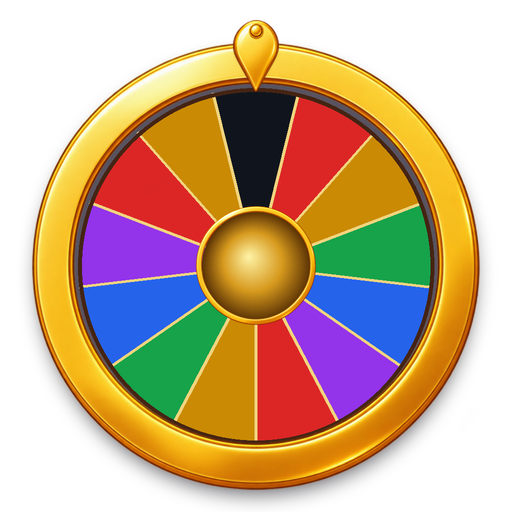
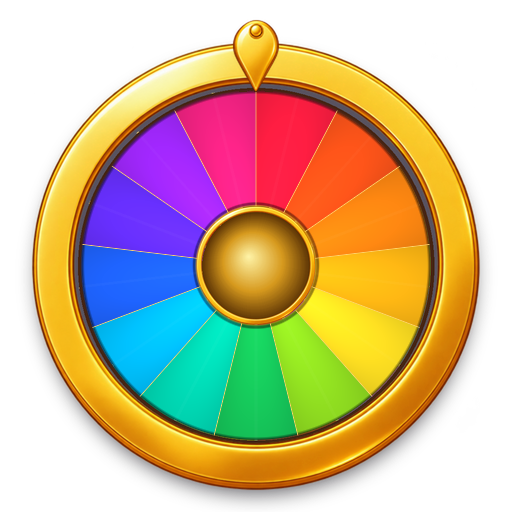
Circus v6: trevo contra Tucker, roleta em arco-íris com contador subindo e Good Luck (mín. 25 giros)

diff --git a/Fortune Circus.dc.html b/Fortune Circus.dc.html
@@ -224,9 +224,6 @@ a:hover { color: #fff3c4; }
 
 
 
-  <sc-if value="{{ feature }}" hint-placeholder-val="{{ false }}">
-    <div style="position: absolute; left: 106.5px; top: -22px; width: 240px; height: 240px; pointer-events: none; border-radius: 50%; mix-blend-mode: screen; background: repeating-conic-gradient(from 0deg, rgba(255,214,90,.5) 0deg 9deg, rgba(255,214,90,0) 9deg 22.5deg); -webkit-mask-image: radial-gradient(circle, #000 28%, transparent 68%); mask-image: radial-gradient(circle, #000 28%, transparent 68%); animation: fcHalo 14s linear infinite;"></div>
-  </sc-if>
   <div class="park-reel-effects" aria-hidden="true">
     <div class="park-reel-fx-column park-reel-shell-0">
   <div class="park-grid-shade" style="position: absolute; left: 30px; top: 215px; width: 394px; height: 390px; border-radius: 10px; pointer-events: none; background: rgba(28,8,40,.42); -webkit-mask-image: linear-gradient(to top, transparent 0%, transparent 42%, #000 58%, #000 100%); mask-image: linear-gradient(to top, transparent 0%, transparent 42%, #000 58%, #000 100%); -webkit-mask-size: 100% 300%; mask-size: 100% 300%; -webkit-mask-repeat: no-repeat; mask-repeat: no-repeat; -webkit-mask-position: 0 {{ frameOff }}; mask-position: 0 {{ frameOff }}; transition: {{ frameOffT }};"></div>

diff --git a/ui/park/cabinet.css b/ui/park/cabinet.css
@@ -146,7 +146,7 @@
 .park-circus-stage .park-pocket{left:5px;top:calc(var(--park-prize-top) + 56px - 52px);width:112px;height:52px;transform:none}
 .park-pocket .park-ticket-wallet-label{left:36%;right:6%;top:10px;font-size:10px;line-height:12px;letter-spacing:.3px}
 .park-pocket [data-tickets]{left:36%;right:6%;top:22px;height:23px;font-size:var(--park-ticket-font,26px)}
-.park-circus-stage .park-basket,.park-circus-stage .park-basket[data-park-side="true"]{right:5px!important;top:calc(var(--park-prize-top) + 56px - 52px)!important;width:112px!important;height:52px!important;transform:none!important;translate:none!important}
+.park-circus-stage .park-basket,.park-circus-stage .park-basket[data-park-side="true"]{right:5px!important;top:calc(var(--park-prize-top) + 56px - 52px)!important;width:112px!important;height:52px!important;transform:none!important;translate:0 0}
 .park-basket .park-ticket-wallet-face,.park-tucker-carried-basket .park-ticket-wallet-face{transform-origin:100% 100%}
 
 .park-reel-cell>[data-sym]{transition:filter .18s ease-out}

diff --git a/tests/circus_v6_browser.py b/tests/circus_v6_browser.py
@@ -44,6 +44,16 @@ with sync_playwright() as p:
   page.screenshot(path='work/preview-cedar-defense-'+kind+'.png')
   page.locator('.park-defense-scene').wait_for(state='detached')
   assert page.locator('[data-tickets]').inner_text()=='1/5'
+ # Tucker com 0 roletas guardadas ainda deve ser bloqueado pelo trevo
+ page.evaluate('''()=>{const k='kingRico.parque.mobile-preview.v1',s=JSON.parse(localStorage.getItem(k));s.park.cedros=1;const p=s.records.find(([k])=>k==='players/preview')[1];p.peaches=0;p.peachBank={count:0,units:0};localStorage.setItem(k,JSON.stringify(s));}''')
+ page.reload();ready()
+ page.evaluate('KingRicoPreviewPicker()');page.locator('#kr-preview-picker').get_by_role('button',name='Toucan').click()
+ page.locator('[data-spin-btn]').click()
+ page.locator('.park-defense-scene').wait_for(timeout=15000)
+ assert page.evaluate('__fc._cloudSpin.outcome.defense.against')=='tucker'
+ page.locator('.park-defense-scene').wait_for(state='detached')
+ assert page.locator('[data-tickets]').inner_text()=='0/5'
+ page.evaluate('KingRicoPreviewPicker()');page.locator('#kr-preview-picker').get_by_role('button',name='Aleatório').click()
  # Ray: sem defesa; leva 1 a 2 dos 2 trevos guardados
  page.evaluate('''()=>{const k='kingRico.parque.mobile-preview.v1',s=JSON.parse(localStorage.getItem(k));s.park.cedros=2;s.park.economyV6={version:1,rounds:0,wageredUnits:0,paidUnits:1000000,tigerUnits:0};localStorage.setItem(k,JSON.stringify(s));}''')
  page.reload();ready()
@@ -53,7 +63,29 @@ with sync_playwright() as p:
  ray=page.evaluate('__fc._cloudSpin.outcome')
  assert not ray.get('defense') and ray['ray']['before']==2 and 1<=ray['ray']['stolen']<=2,ray
  assert page.evaluate('KingRicoPark.state.cedros')==2-ray['ray']['stolen']
+ page.locator('.park-tony-result').wait_for(timeout=15000)
  page.screenshot(path='work/preview-ray-steals-cedars.png')
+ page.locator('.park-tony-result').get_by_role('button',name='CONTINUAR').click()
+ page.wait_for_function('!__fc._cfRun',timeout=15000)
+ # Good Luck (barra cheia): trava símbolos na máquina e não mostra o halo antigo da cesta
+ page.evaluate('KingRicoPreviewPicker()');page.locator('#kr-preview-picker').get_by_role('button',name='Good Luck (barra cheia)').click()
+ page.locator('[data-spin-btn]').click()
+ page.wait_for_function('Boolean(__fc.state.feature)',timeout=15000)
+ assert page.evaluate('document.querySelectorAll("[style*=fcHalo]").length')==0
+ feat=page.evaluate('__fc._cloudSpin.outcome.feature')
+ assert feat['sym'] in [0,2,6,7,8,10] and feat['grid'].count(feat['sym'])>=3,feat
+ page.wait_for_function('document.querySelectorAll(\'.park-reel-cell[data-held="true"]\').length>=1',timeout=15000)
+ page.screenshot(path='work/preview-goodluck-held.png')
+ page.wait_for_function('!__fc.state.feature&&!__fc._cfRun&&!__fc.cloudBusy()&&!document.querySelector(".park-bigwin-flight")&&(!document.querySelector("[data-bigwin-modal]")||getComputedStyle(document.querySelector("[data-bigwin-modal]")).visibility==="hidden")',timeout=45000)
+ # Roleta (5 guardadas): o contador .park-basket deve subir junto com as cordas
+ page.evaluate('KingRicoPreviewPicker()');page.locator('#kr-preview-picker').get_by_role('button',name='Roleta (5 guardadas)').click()
+ page.locator('[data-spin-btn]').click()
+ page.wait_for_function('document.querySelector(".park-hoist-deck")?.dataset.hoist==="wheel"',timeout=20000)
+ basket_translate=page.locator('.park-basket').evaluate('e=>getComputedStyle(e).translate')
+ assert '-920px' in basket_translate,basket_translate
+ page.screenshot(path='work/preview-wheel-hoist.png')
+ page.evaluate('''()=>{const k='kingRico.parque.mobile-preview.v1',s=JSON.parse(localStorage.getItem(k));s.park.wheel=null;localStorage.setItem(k,JSON.stringify(s));}''')
+ page.evaluate('KingRicoPreviewPicker()');page.locator('#kr-preview-picker').get_by_role('button',name='Aleatório').click()
  for route in ['park','fingo','flying-clown','bounce']:  # penalty voltou: o controle abre esse jogo
   page.goto(BASE+'/'+route);ready();assert 'Fortune%20Circus.dc.html' in page.url
   assert page.locator('[data-ticket],.kr-hud-park').count()==0
@@ -63,5 +95,5 @@ with sync_playwright() as p:
  assert page.evaluate('KingRicoPark.state.cedros')==min(5,previous+1)
  page.screenshot(path='work/preview-circus-v6.png')
  assert not errors and not missing,(errors,missing)
- print(json.dumps({'cloverCollection':True,'defense':['tony','tucker'],'rayStealsClovers':True,'archivedRoutes':True,'errors':errors,'missing':missing}))
+ print(json.dumps({'cloverCollection':True,'defense':['tony','tucker','tuckerZeroWheels'],'basketHoistsWithRopes':True,'rayStealsClovers':True,'archivedRoutes':True,'errors':errors,'missing':missing}))
  b.close()

diff --git a/docs/HANDOFF.md b/docs/HANDOFF.md
@@ -1,18 +1,16 @@
-## Trevo no lugar do cedro + Roleta (0/5) no lugar do Happeach + Barra lateral Good Luck aleatória — 14/11/2026 (Antigravity)
+## Ajustes Trevo + Roleta Arco-Íris + Good Luck (mín. 25 giros) — 14/11/2026 (Antigravity)
 
-- **1. Troca do cedro pelo trevo (`assets/symbols/sym-clover.png`):**
-  - Substituída a célula 5 do atlas `assets/symbols-v7.webp` pelo trevo (`assets/symbols/sym-clover.png`), além do depósito (`.park-pocket`), voo (`flyTickets`), cena de defesa (`"Trevo da sorte te protegeu!"`), tela do Ray (`"Ray levou N trevo(s)"` / `"Sem trevos!"`), modal (`"Trevos de proteção"`, `"Seus trevos"`), tabela de pagamentos e seletor `⚙ → 🎯` (`"Trevo"`).
-  - Atualizado `tests/circus_v6_browser.py` para `"Trevos de proteção"`.
-- **2. Happeach guardado e Roleta no lugar dele (`0/5`):**
-  - Happeach retirado do sorteio, contador e cesta (arquivos preservados no repositório).
-  - No depósito superior direito (`0/5`, `.park-basket`), agora ficam guardadas as roletas (`assets/wheel/wheel-symbol-v1.webp`, célula 11 de `assets/symbols-v7.webp`). Ao juntar 5 (`5/5`), abre a roleta bônus (`baseUnits = round(wheelUnits * 0.36)`). Tucker rouba de 1 a 4 roletas guardadas (ou é bloqueado por 1 trevo).
-- **3. Barra lateral vira o Good Luck:**
-  - Topo das barras laterais (`.park-meter-goal`) agora exibe a nuvem (`assets/symbols/sym-candy.webp`).
-  - Enchimento aleatório nos giros normais (`+1` em 8%, `+2` em 2%, `+0` em 90%). Ao chegar a 10, a nuvem pisca e ativa os 5 giros Good Luck (`featureBet = floor(cycleWagerUnits / 10) / 100`).
-- **4. Seletor `⚙ → 🎯` e Auditoria v6 (~90% RTP):**
-  - Incluídas no seletor `⚙ → 🎯` as opções `"Trevo"`, `"Good Luck (barra cheia)"` e `"Roleta (5 guardadas)"`.
-  - Parâmetros calibrados em `cloud/circus-profile.cjs`: `CEDAR_P = 0.12`, `PEACH_P_V6 = 0.015`, `WHEEL_SHARE_V6 = 0.36`, `BAR_P1_V6 = 0.08`, `BAR_P2_V6 = 0.02`.
-  - Auditoria (`docs/circus-economy-v6-audit.json`, 5M giros/aposta): retorno líquido **89,99%–90,00%** em todas as apostas (1 a 1.000), retorno bruto sem Tony **91,49%–91,83%** (nunca acima de 93%). Cenários de stress (`docs/circus-economy-v6-stress.json`, 1M giros): `tenth-high` **90,27%**, `armor-farm` **90,02%**, `alternating` **89,98%**, `armor=true` **89,97%**.
+- **Feito:**
+  - **Trevo protege contra Tony e Tucker mesmo com 0 roletas (`0/5`):** corrigidos `cloud/circus-control-v6.cjs` e `firestore.rules` (`v6Villain`) para que `protect` dependa apenas de `cedros > 0 && kind !== 'ray'`, sem exigir `peaches > 0` contra o Tucker.
+  - **Roleta em arco-íris:** recoloridos os 13 setores de `assets/wheel/wheel-symbol-v1.png`, `.webp` e célula 11 de `assets/symbols-v7.webp` em arco-íris contínuo preservando o aro, ponteiro e miolo dourados.
+  - **Contador `0/5` sobe junto com as cordas:** removido `translate:none!important` em `.park-circus-stage .park-basket` (`ui/park/cabinet.css`) para permitir que `wheel-transition.js` / `.park-hoist-deck[data-hoist="wheel"]` icem o contador de roletas guardadas junto com a máquina.
+  - **Good Luck aleatório com mínimo de 25 giros e animações corrigidas:**
+    - Em `cloud/park.cjs` (`spinV6`), adicionado controle `_barSpins` (persistido na prévia em `prototypes/circus-preview/model.mjs`) exigindo **no mínimo 25 giros** para atingir o nível `10`, com `BAR_P1_V6 = 0.12`, `BAR_P2_V6 = 0` e `WHEEL_SHARE_V6 = 0.36` em `cloud/circus-profile.cjs` (mín. **25 giros**, média **~88 giros**). Auditoria de 5M giros/aposta validou **~90,00% líquido** (**92,18%–92,22% bruto**, `≤ 93%`) e todos os cenários de stress (`90,10%` décimo giro alto).
+    - Em `prototypes/circus-preview/browser-wallet.mjs`, o fallback de `draws.shift()` voltou para `Math.random()` (evitando que testes manuais em `🎯` avançassem `+1` na barra a cada giro e travassem `.99` no Good Luck, o que deixava os rolos vazios).
+    - Em `cloud/engine.cjs` (`feature` v6), sorteio limitado aos 6 símbolos pagantes (`SYMBOLS_V6.slice(0, 11)`, sem `controller`) com garantia de símbolo travado e ao menos uma trinca antes do pagamento.
+    - Em `Fortune Circus.dc.html`, removido o efeito antigo `fcHalo` (raios atrás da antiga cesta centralizada).
+  - Atualizados `tests/circus-v6.test.cjs`, `tests/circus_v6_browser.py`, `docs/PARQUE.md`, `docs/CIRCUS-V6-VALIDACAO.md`, `docs/todo.json` e `docs/circus-economy-v6-audit.json` / `v6-stress.json`.
+- **Próximo passo:** Dono avaliar as correções na prévia única (`https://ric-lab.github.io/King-Rico/circus/`) usando `⚙ → 🎯` (**Trevo**, **Toucan**, **Good Luck (barra cheia)** e **Roleta (5 guardadas)**) antes da promoção ao oficial (`t-firestore-v6` segue com Codex).
 
 
 ## Controle v2 aprovado + prévia sempre na demo normal (sem links específicos) — 13/11/2026 (Antigravity)

diff --git a/docs/PARQUE.md b/docs/PARQUE.md
@@ -17,8 +17,8 @@ Três **trevos** (`assets/symbols/sym-clover.png`, célula 5 do atlas `symbols-v
 numa linha dão **1 defesa**, com estoque máximo **5**, indicado à esquerda do
 prêmio como **n/5**. Cada linha completa conta uma vez. Um trevo bloqueia um
 evento inteiro de **Tony ou Tucker — nunca de Ray**, sendo consumido na mesma
-transação do giro; Tony não consome três defesas pelas três patadas. Um ataque de
-Tucker contra depósito vazio não gasta defesa. Ray rouba de **1 a 4 trevos**
+transação do giro; Tony não consome três defesas pelas três patadas. Mesmo com `0/5`
+roletas guardadas, o trevo ainda protege contra o Tucker. Ray rouba de **1 a 4 trevos**
 (limitado ao estoque); sem estoque, Ray aparece sem perda (`"Sem trevos!"`).
 A mensagem da defesa é **"Trevo da sorte te protegeu!"**. A apresentação de defesa
 é informativa e nunca altera a carteira. Ingressos antigos não viram trevos nem
@@ -26,16 +26,17 @@ moedas. O contador antigo de entradas deixa a interface.
 
 O **Happeach** deixa de ser sorteado e saem seu contador e cesta (arquivos
 mantidos no repositório). No lugar onde o Happeach ficava guardado (topo direito,
-`0/5`), passa a ficar guardada a **Roleta** (`assets/wheel/wheel-symbol-v1.webp`,
-célula 11 de `symbols-v7.webp`, chance `0,015` por célula). Quando juntar **5**,
-abre a tela da roleta bônus (`baseUnits = round(wheelUnits * 0.36)`, onde
-`wheelUnits` soma as 5 apostas em que cada roleta foi guardada).
+`0/5`), passa a ficar guardada a **Roleta** em arco-íris (`assets/wheel/wheel-symbol-v1.webp`,
+célula 11 de `symbols-v7.webp`, chance `0,015` por célula). O contador `0/5` sobe junto
+com as cordas quando a máquina é içada. Quando juntar **5**, abre a tela da roleta bônus
+(`baseUnits = round(wheelUnits * 0.36)`, onde `wheelUnits` soma as 5 apostas em que cada roleta foi guardada).
 
 As **barras laterais** viram o **Good Luck**: no topo de cada barra entra o asset
 da nuvem (`assets/symbols/sym-candy.webp`). A barra deixa de encher nos 10 giros
-fixos e passa a encher de forma aleatória (`+1` em 8% dos giros normais, `+2` em
-2%, `+0` em 90%). No giro em que a barra chega ao topo (`10`), a nuvem pisca e
-ativa os **5 giros Good Luck** (`featureBet = floor(cycleWagerUnits / 10) / 100`).
+fixos e passa a encher de forma aleatória (`BAR_P1_V6 = 0,12`, máximo de 1 nível por giro),
+exigindo **no mínimo 25 giros** no ciclo (média ~88 giros) para chegar ao topo (`10`).
+Quando chega ao topo (`10`), a nuvem pisca e ativa os **5 giros Good Luck**
+(`featureBet = floor(cycleWagerUnits / 10) / 100`), travando símbolos pagantes reais na grade.
 
 O controle de videogame (`assets/machine/controller-symbol-v1.webp`, ID 15) está
 reservado sem sorteio enquanto a abertura do Penalty é tarefa separada. As três

diff --git a/docs/CIRCUS-V6-VALIDACAO.md b/docs/CIRCUS-V6-VALIDACAO.md
@@ -11,21 +11,21 @@ Ingressos antigos não entram no cálculo. Trevo não é dinheiro nem entrada.
 
 | Aposta | Giros | Rolos + Good Luck | Roleta Bônus | Bruto (sem Tony) | Tony | Retorno Líquido |
 |---|---:|---:|---:|---:|---:|---:|
-| 1 | 5.000.000 | 82,92% | 8,91% | 91,83% | -1,84% | **89,9907%** |
-| 10 | 5.000.000 | 82,85% | 8,93% | 91,78% | -1,78% | **89,9951%** |
-| 100 | 5.000.000 | 82,85% | 8,93% | 91,78% | -1,78% | **89,9951%** |
-| 1.000 | 5.000.000 | 82,85% | 8,93% | 91,78% | -1,78% | **89,9951%** |
+| 1 | 5.000.000 | 83,31% | 8,86% | 92,18% | -2,18% | **89,9965%** |
+| 10 | 5.000.000 | 83,30% | 8,88% | 92,18% | -2,19% | **89,9962%** |
+| 100 | 5.000.000 | 83,34% | 8,88% | 92,22% | -2,22% | **89,9974%** |
+| 1.000 | 5.000.000 | 83,34% | 8,88% | 92,22% | -2,22% | **89,9974%** |
 
-*(Demais apostas de 2,5 a 500 simuladas com 1.000.000 giros cada: retorno líquido **89,99%** em todas, bruto sem Tony ≤ **91,83%**, nunca acima de 93%.)*
+*(Demais apostas de 2,5 a 500 simuladas com 1.000.000 giros cada: retorno líquido **~90,00%** em todas, bruto sem Tony **≤ 92,22%**, nunca acima de 93%.)*
 
 PAYS por ID estável: `[1.2,0,0.8,0,0,0,2.5,10,5,0,0.4,0,0,0,0,0]`.
 Pagantes na fita/tabela: ingresso, circo, capa, moeda, diamante, coroa.
-Pesos `[9,0,12,0,0,0,7,5,6,0,70,0,0,0,0,0]`, trevo (`CEDAR_P`) `0,12`, símbolo de roleta (`PEACH_P_V6`) `0,015`, `WHEEL_SHARE_V6 = 0,36`, barra Good Luck aleatória (`BAR_P1_V6 = 0,08`, `BAR_P2_V6 = 0,02`).
+Pesos `[9,0,12,0,0,0,7,5,6,0,70,0,0,0,0,4]`, trevo (`CEDAR_P`) `0,12`, símbolo de roleta (`PEACH_P_V6`) `0,015`, `WHEEL_SHARE_V6 = 0,36`, barra Good Luck aleatória (`BAR_P1_V6 = 0,12`, `BAR_P2_V6 = 0`, trava mínima de **25 giros**, média **~88 giros**).
 Os arquivos JSON incluem componentes e hashes das fontes da simulação.
 
-Um milhão por cenário adicional: décimo giro alto **90,2679%**, cultivar trevos
-com aposta baixa **90,0247%**, alternar 1/1.000 **89,9752%**, estoque artificial
-sempre cheio **89,9706%**. Todos em 88,5–91,5%, nenhum acima de 93%.
+Um milhão por cenário adicional: décimo giro alto **90,1044%**, cultivar trevos
+com aposta baixa **90,0494%**, alternar 1/1.000 **89,9837%**, estoque artificial
+sempre cheio **89,9987%**. Todos em 88,5–91,5%, nenhum acima de 93%.
 As simulações históricas v4/v5 também foram reexecutadas (5 milhões por aposta)
 e seus hashes de módulos comuns atualizados, com retorno na faixa original.
 
